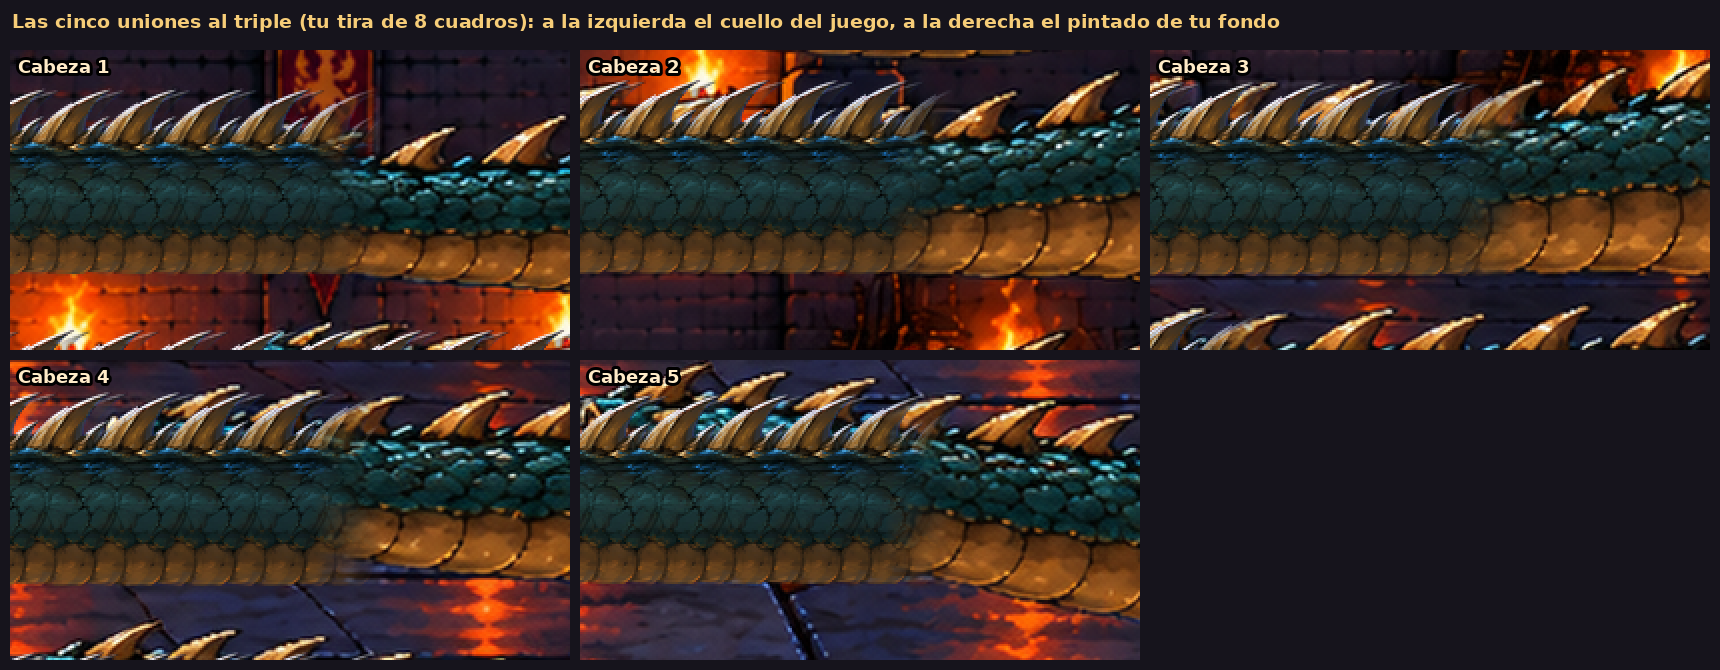
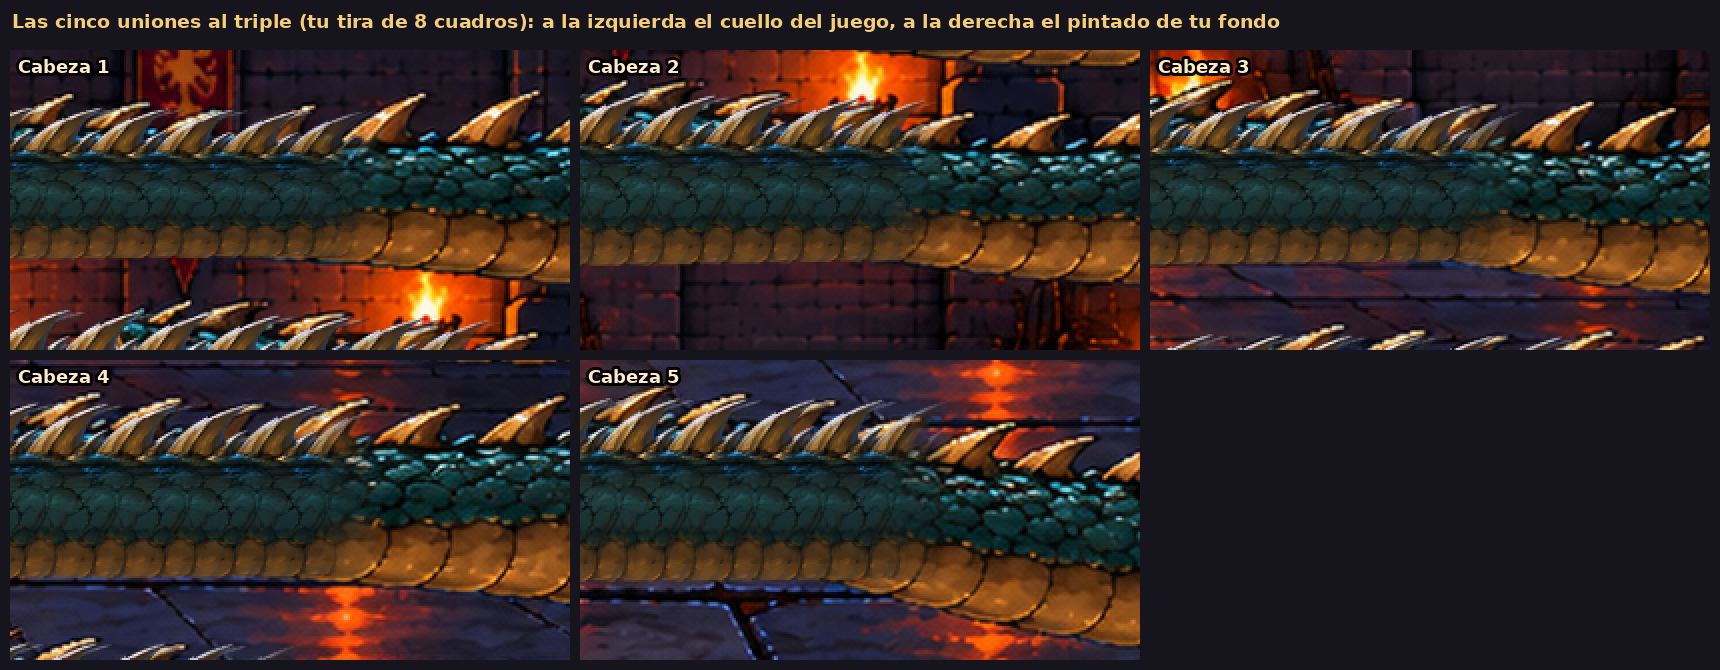
Colossal hydra: each neck narrows to its painted neck's thickness
The owner saw the top three necks thicker than the necks painted on the body. His backdrop has
depth, so the back necks are painted thinner; each game neck now narrows along its stretch to the
thickness measured on its painted neck.

Claude-Session: https://claude.ai/code/session_01EpW692ymKrP3N4xAnc5Ww8

diff --git a/docs/GAMEPLAY_DESIGN.md b/docs/GAMEPLAY_DESIGN.md
@@ -2125,8 +2125,11 @@ and no body along the back wall; only the body on the right).
   (about 14 m of depth) and the top two necks run along the wall, so those heads are in the air
   (about 4 m and 2.3 m or more over the floor): reaching them in melee needs a jump or height. The
   long neck: the head frame, then a straight stretch of his long neck (his zip's fixed part) scaled
-  to the same thickness and repeated with soft overlaps, into the painted neck. It overlaps the
-  painted neck up to where both are equally thick, sits on its middle there and fades out over
-  about 34 px, tinted toward his darker scales (`docs/mockups/colossal-hydra-neck-joins.png`). His first two
+  to the same thickness and repeated with soft overlaps, into the painted neck. His backdrop has
+  depth, so the back necks are painted thinner (about 55, 61, 59, 65 and 68 px from back to
+  front, measured 190 px past each ring): each game neck narrows along its stretch to its painted
+  neck's thickness (the owner, 2026-10-28: the top three were thicker than the body's necks),
+  overlaps it up to there, sits on its middle and fades out over about 34 px, tinted toward his
+  darker scales (`docs/mockups/colossal-hydra-neck-joins.png`). His first two
   backdrops and the bite strip v2 (seven heads) stay as references.
 
